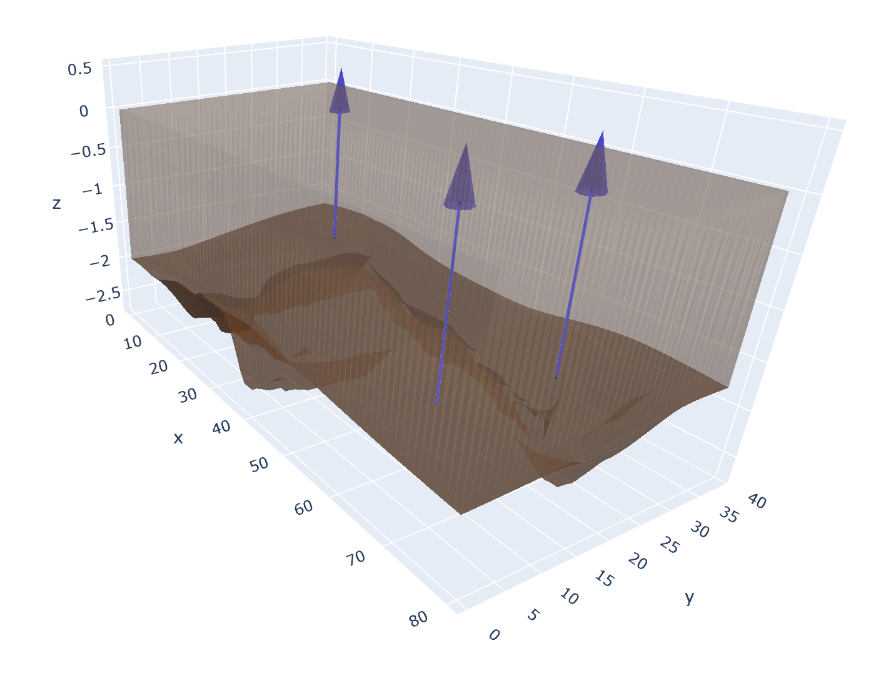
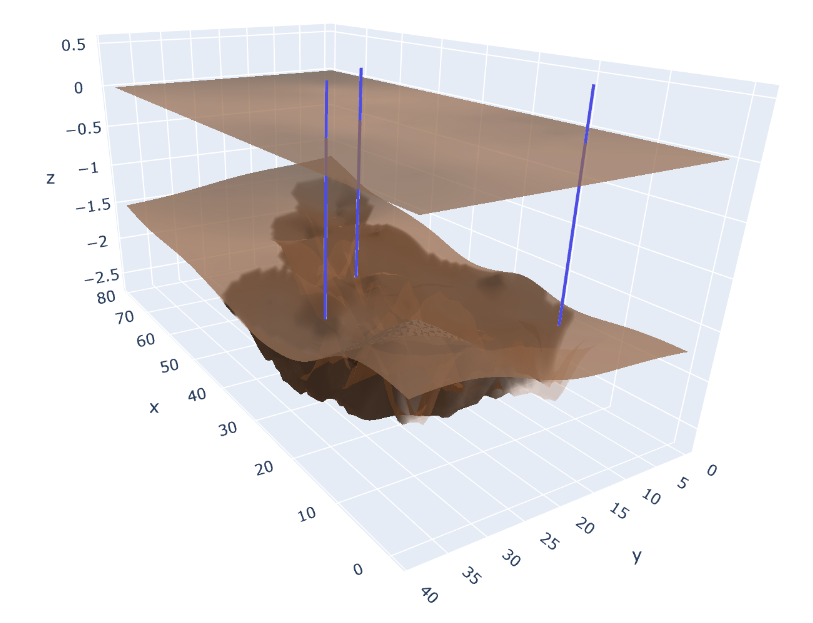
Minor render & logic changes

diff --git a/src/render/utils.py b/src/render/utils.py
@@ -9,26 +9,27 @@ def build_ground_mesh(field_map: FieldMap, opacity=0.4):
     z_upper = np.zeros(num_cells)
     z_lower = np.array([-cell.reservoir_depth for row in field_map.map for cell in row])
     intensity = np.array([cell.permeability for row in field_map.map for cell in row])
-    return _build_mesh_coords(z_upper, z_lower, intensity, field_map, opacity, (0, 2.5),
-                              ((0.7, 0.4, 0.2), (0.4, 0.4, 0.4)), "Проницаемость")
+    return _build_mesh_coords(z_upper, z_lower, intensity, field_map, opacity, (0.5, 2.5),
+                              ((0.7, 0.4, 0.2, 0.5), (0.4, 0.4, 0.4, 1.)), "Проницаемость", True)
 
 
-def build_reservoir_mesh(field_map: FieldMap, opacity=0.25):
+def build_reservoir_mesh(field_map: FieldMap, opacity=0.25, render_top=True):
     z_upper = np.array([-cell.reservoir_depth for row in field_map.map for cell in row])
     z_lower = np.array([-cell.reservoir_depth-cell.reservoir_height for row in field_map.map for cell in row])
     return _build_mesh_coords(z_upper, z_lower, None, field_map, opacity, None,
-                              ((0.8, 0.5, 0.3), ), None)
+                              ((0.8, 0.5, 0.3), ), None, False, not  render_top)
 
 
 def build_oil_mesh(field_map: FieldMap, opacity=0.75):
     z_upper = np.array([-cell.reservoir_depth-cell.reservoir_height * (1 - cell.oil_amount / max(1e-9, cell.max_oil_amount)) for row in field_map.map for cell in row])
     z_lower = np.array([-cell.reservoir_depth-cell.reservoir_height for row in field_map.map for cell in row])
-    return _build_mesh_coords(z_upper, z_lower, None, field_map, opacity, None,
-                              ((0., 0., 0.), ), None)
+    intensity = np.array([(min(0.8, cell.oil_amount / max(1e-9, cell.max_oil_amount)) / 0.8 if cell.max_oil_amount > 1e-3 else 0.)
+                          for row in field_map.map for cell in row])
+    return _build_mesh_coords(z_upper, z_lower, intensity, field_map, opacity, (0, 1),
+                              ((0., 0., 0., 0.), (0., 0., 0., 1.)), None)
 
 
 def build_porosity_volume(field_map: FieldMap, opacity=0.1, surface_count=21):
-    num_cells = field_map.width * field_map.height
     x = np.array([cell.x for row in field_map.map for cell in row])
     y = np.array([cell.y for row in field_map.map for cell in row])
     z_upper = np.array([-cell.reservoir_depth for row in field_map.map for cell in row])
@@ -51,38 +52,22 @@ def build_porosity_volume(field_map: FieldMap, opacity=0.1, surface_count=21):
 def build_well_mesh(well_map: WellMap, field_map:FieldMap, opacity=0.25):
     x = [well.x for well in well_map.wells]
     y = [well.y for well in well_map.wells]
-    z = [0.1 for _ in well_map.wells]
-    u = [0 for _ in well_map.wells]
-    v = [0 for _ in well_map.wells]
-    w = [1 for _ in well_map.wells]
-    cones = go.Cone(
-        x=x, y=y, z=z, u=u, v=v, w=w,
-        colorscale=[
-                [0., clrs.label_rgb((0.3, 0.3, 0.9))],
-                [1., clrs.label_rgb((0.3, 0.3, 0.9))]
-            ],
-        opacity=opacity, sizemode="absolute", sizeref=0.5, showscale=False
-    )
     lines = []
     for _x, _y in zip(x, y):
         line = go.Scatter3d(
-            x=[_x, _x], y=[_y, _y], z=[0, -field_map.map[_y][_x].reservoir_depth],
-            marker=dict(
-                size=1,
-                opacity=0.,
-                color='black',
-            ),
+            x=[_x, _x], y=[_y, _y], z=[0.5, -field_map.map[_y][_x].reservoir_depth],
+            mode="lines",
             line=dict(
                 color=clrs.label_rgb((0.3, 0.3, 0.9)),
                 width=5
             ), showlegend=False
         )
         lines.append(line)
-    return [cones] + lines
+    return lines
 
 
 def _build_mesh_coords(z_upper, z_lower, intensity, field_map:FieldMap, opacity, intensity_lims,
-                       colors, label=None, no_bounds=False):
+                       colors, label=None, no_bounds=False, no_top=False):
     num_cells = field_map.width * field_map.height
     x = np.array([cell.x for row in field_map.map for cell in row])
     y = np.array([cell.y for row in field_map.map for cell in row])
@@ -94,18 +79,19 @@ def _build_mesh_coords(z_upper, z_lower, intensity, field_map:FieldMap, opacity,
 
     ### Build a list of triangles
 
-    # Triangles for upper part
-    triangles = [(y * field_map.width + x,
-                  (y + 1) * field_map.width + x,
-                  y * field_map.width + x+1)
+    # Triangles for lower part
+    triangles = [(y * field_map.width + x + num_cells,
+                  (y + 1) * field_map.width + x + num_cells,
+                  y * field_map.width + x+1 + num_cells)
                  for y in range(field_map.height-1) for x in range(field_map.width-1)]
-    triangles += [(y * field_map.width + x,
-                   (y - 1) * field_map.width + x,
-                   y * field_map.width + x-1)
+    triangles += [(y * field_map.width + x + num_cells,
+                   (y - 1) * field_map.width + x + num_cells,
+                   y * field_map.width + x-1 + num_cells)
                   for y in range(1, field_map.height) for x in range(1, field_map.width)]
 
-    # Triangles for lower part
-    triangles += [(i + num_cells, j + num_cells, k + num_cells) for i, j, k in triangles]
+    # Triangles for upper part
+    if not no_top:
+        triangles += [(i - num_cells, j - num_cells, k - num_cells) for i, j, k in triangles]
 
     # Triangles for connection between lower and upper parts
     if not no_bounds:
@@ -128,10 +114,11 @@ def _build_mesh_coords(z_upper, z_lower, intensity, field_map:FieldMap, opacity,
             j=[j for (_, j, _) in triangles],
             k=[k for (_, _, k) in triangles],
             colorscale=[
-                [0., clrs.label_rgb(colors[0])],
-                [1., clrs.label_rgb(colors[1])]
+                [0., (clrs.label_rgb(colors[0]) if len(colors[0]) != 4 else _label_rgba(*colors[0]))],
+                [1., (clrs.label_rgb(colors[1]) if len(colors[1]) != 4 else _label_rgba(*colors[1]))]
             ],
             colorbar_title=label,
+            showscale=(label is not None),
             opacity=opacity,
             cmin=intensity_lims[0],
             cmax=intensity_lims[1]
@@ -146,3 +133,7 @@ def _build_mesh_coords(z_upper, z_lower, intensity, field_map:FieldMap, opacity,
             opacity=opacity,
         )
     return mesh
+
+
+def _label_rgba(r, g, b, a):
+    return f"rgba({int(255*r)}, {int(255*g)}, {int(255*b)}, {a:.3f})"

diff --git a/src/utils/map_generation/generate_linked_graph.py b/src/utils/map_generation/generate_linked_graph.py
@@ -4,7 +4,11 @@ import numpy as np
 def generate_graph(w, h, min_nodes=6, max_nodes=32, min_connections_per_node=1, max_connection_per_node=16,
                    min_depth=0.5, max_depth=2, min_permeability=0.2, max_permeability=1.2,
                    min_height=0.2, max_height=2):
-    nodes = [(np.random.randint(0, w), np.random.randint(0, h)) for _ in range(np.random.randint(min_nodes, max_nodes+1))]
+    margin_x = w // 10
+    margin_y = h // 10
+    nodes = [(np.random.randint(margin_x, w-margin_x),
+              np.random.randint(margin_y, h-margin_y))
+             for _ in range(np.random.randint(min_nodes, max_nodes+1))]
 
     connection_counts = np.zeros(len(nodes), dtype=int)
     connected_to = [set() for _ in nodes]
@@ -67,7 +71,7 @@ def generate_graph(w, h, min_nodes=6, max_nodes=32, min_connections_per_node=1, 
 
     widths = np.clip((1.5 * (w + h) / len(centers)) * ((1.3 + is_node * 0.8) + (1.2 + 1.2 * is_node) * np.random.rand(1, 1, len(centers))), 0.5, None)
     depths = min_depth + np.random.random(len(centers)) * (max_depth - min_depth)
-    permeabilities = min_permeability + np.random.random(len(centers))**0.75 * (max_permeability - min_permeability)
+    permeabilities = min_permeability + np.random.random(len(centers)) * (max_permeability - min_permeability)
     porosities = 0.1 + 0.9 * np.random.random(len(centers))**0.5
     heights = min_height + (max_height - min_height) * np.random.random(len(centers))**1.25
 
@@ -84,16 +88,19 @@ def generate_graph(w, h, min_nodes=6, max_nodes=32, min_connections_per_node=1, 
     pts_dst = ((pts - pts_dst)**2).sum(-1)**0.5
 
     decay_coef = (np.clip(dst / widths, 0., None).min(axis=-1) * np.clip(pts_dst, 0., None).min(axis=-1))
-    decay = 1.5 ** -np.clip(decay_coef - 0.2, 0., None)
+    decay = 1.7 ** -np.clip(decay_coef - 0.2, 0., None)
 
-    coefs = 1.5 ** -(dst / widths)**0.5
+    coefs = 1.9 ** -(dst / widths)
     coefs = coefs / np.sum(coefs, axis=-1, keepdims=True)
 
     depth_coefs = 2.2 ** -(dst / widths)
     depth_coefs = depth_coefs / np.sum(depth_coefs, axis=-1, keepdims=True)
 
+    permeability_coefs = 2.1 ** -(dst / widths)
+    permeability_coefs = permeability_coefs / np.sum(permeability_coefs, axis=-1, keepdims=True)
+
     depth_map = (depths * depth_coefs).sum(axis=-1)
-    permeability_map = (permeabilities * coefs).sum(axis=-1)
+    permeability_map = (permeabilities * permeability_coefs).sum(axis=-1)
     porosity_map = (porosities * coefs).sum(axis=-1) * decay
     height_map = (heights * coefs).sum(axis=-1) * decay
 

diff --git a/src/engine/maps.py b/src/engine/maps.py
@@ -166,9 +166,15 @@ class FlowMap:
                     total_flow_map[cell.y, cell.x, i] = max(0, first - second)
                     total_flow_map[other.y, other.x, j] = max(0, second - first)
 
-        # update cell oil values
-        wells = [(well.y, well.x) for well in self.well_map.wells]
+        # Extract oil before performing a step
         extracted_oil = 0
+        for well in self.well_map.wells:
+            cell = self.field_map.map[well.y][well.x]
+            extracted = min(cell.oil_amount, self.oil_viscosity * self.well_power)
+            cell.oil_amount -= extracted
+            extracted_oil += extracted
+
+        # Update cell oil values
         sorted_cells = sorted(cells, key=lambda cell: np.sum(total_flow_map[cell.y, cell.x]))
         for cell in sorted_cells:
             max_total_inflow_amount = cell.max_oil_amount - cell.oil_amount
@@ -188,10 +194,6 @@ class FlowMap:
                 if other is None:
                     continue
                 other.oil_amount -= inflow_amounts[i]
-
-            if (cell.y, cell.x) in wells:
-                extracted_oil += cell.oil_amount
-                cell.oil_amount = 0
 
         return extracted_oil
 
@@ -213,7 +215,6 @@ class FlowMap:
         pending[y, x] = True
         delta_map[y, x] = well_flow_map[y, x]
         while len(queue) > 0:
-            tmp = np.sum(well_flow_map, axis=-1)
             x, y = queue.popleft()
             pending[y, x] = False
 

diff --git a/src/render/render.py b/src/render/render.py
@@ -3,25 +3,26 @@ import plotly.graph_objects as go
 from src.engine.maps import FieldMap, WellMap
 from .utils import build_ground_mesh, build_well_mesh, build_oil_mesh, build_reservoir_mesh, build_porosity_volume
 
+
 class RenderSettings:
     display_porosity = True
     porosity_opacity = 0.1
     porosity_surface_num = 21
 
     display_ground = True
-    ground_opacity = 0.35
+    ground_opacity = 0.999
 
     display_wells = True
     well_opacity = 0.75
 
-    oil_opacity = 0.4
+    oil_opacity = 0.75
     reservoir_opacity = 0.15
 
 
 def render(field_map:FieldMap, well_map:WellMap, render_settings: RenderSettings):
     data = []
     data.append(build_oil_mesh(field_map, render_settings.oil_opacity))
-    data.append(build_reservoir_mesh(field_map, render_settings.reservoir_opacity))
+    data.append(build_reservoir_mesh(field_map, render_settings.reservoir_opacity, not render_settings.display_ground))
     if render_settings.display_wells:
         data.extend(build_well_mesh(well_map, field_map, render_settings.well_opacity))
     # TODO: Fix porosity render
